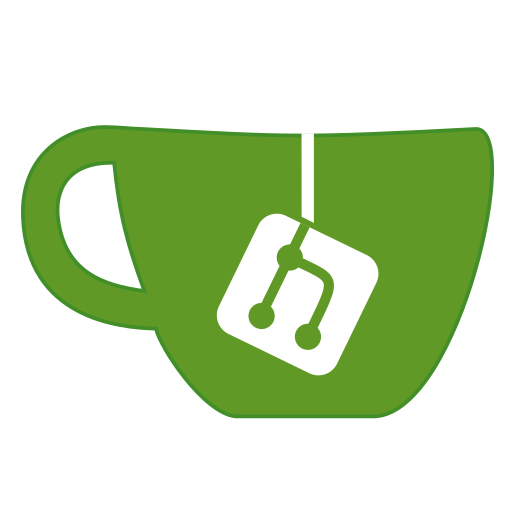
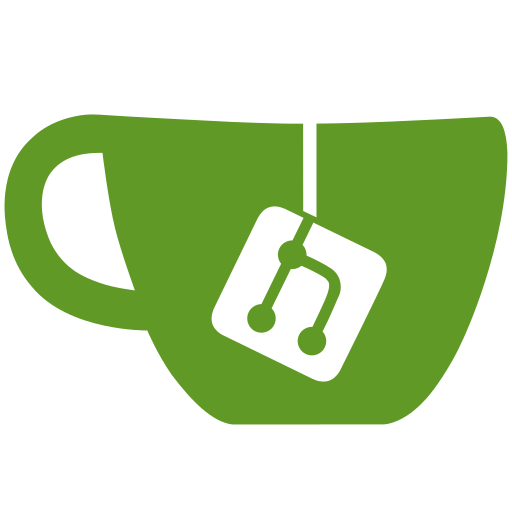
Clean up SVG (#13680)
* Clean up SVG

* update per feedback

* fix css style

* Delete gitea.png

* no new line at end of file

* fix newline?

diff --git a/build/generate-images.js b/build/generate-images.js
@@ -3,7 +3,6 @@
 
 const imageminZopfli = require('imagemin-zopfli');
 const {fabric} = require('fabric');
-const {DOMParser, XMLSerializer} = require('xmldom');
 const {readFile, writeFile} = require('fs').promises;
 const {resolve} = require('path');
 const Svgo = require('svgo');
@@ -40,23 +39,7 @@ async function generateSvgFavicon(svg, outputFile) {
   await writeFile(outputFile, data);
 }
 
-async function generate(svg, outputFile, {size, bg, removeDetail} = {}) {
-  const parser = new DOMParser();
-  const serializer = new XMLSerializer();
-  const document = parser.parseFromString(svg);
-
-  if (removeDetail) {
-    for (const el of Array.from(document.getElementsByTagName('g') || [])) {
-      for (const attribute of Array.from(el.attributes || [])) {
-        if (attribute.name === 'class' && attribute.value === 'detail-remove') {
-          el.parentNode.removeChild(el);
-        }
-      }
-    }
-  }
-
-  svg = serializer.serializeToString(document);
-
+async function generate(svg, outputFile, {size, bg}) {
   const {objects, options} = await loadSvg(svg);
   const canvas = new fabric.Canvas();
   canvas.setDimensions({width: size, height: size});
@@ -93,7 +76,7 @@ async function main() {
   await generate(svg, resolve(__dirname, '../public/img/gitea-192.png'), {size: 192});
   await generate(svg, resolve(__dirname, '../public/img/gitea-sm.png'), {size: 120});
   await generate(svg, resolve(__dirname, '../public/img/avatar_default.png'), {size: 200});
-  await generate(svg, resolve(__dirname, '../public/img/favicon.png'), {size: 180, removeDetail: true});
+  await generate(svg, resolve(__dirname, '../public/img/favicon.png'), {size: 180});
   await generate(svg, resolve(__dirname, '../public/img/apple-touch-icon.png'), {size: 180, bg: true});
 }
 
